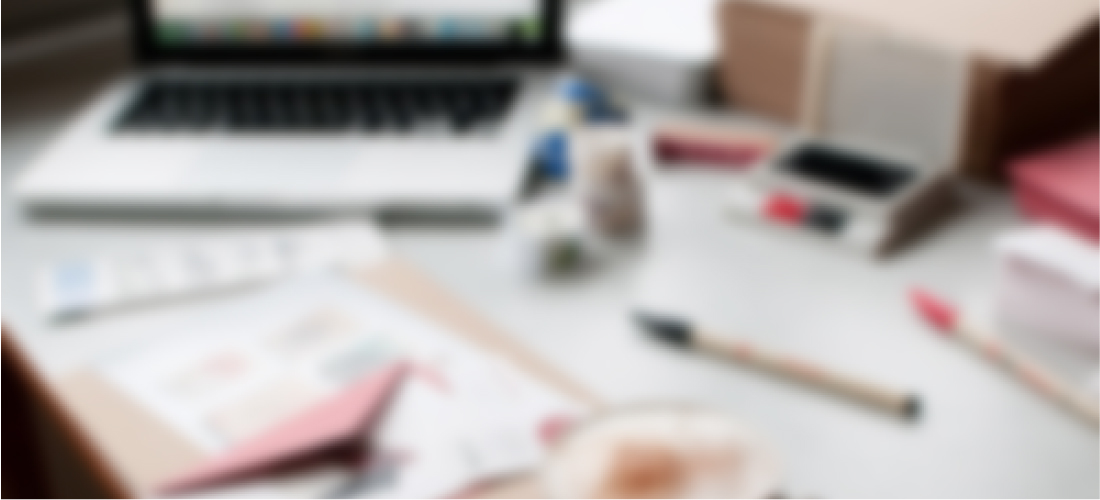
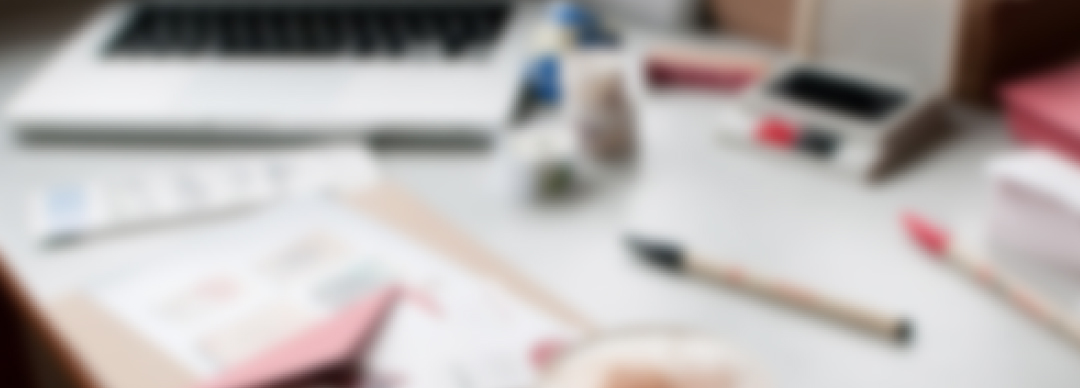
butt

diff --git a/css/core/style.css b/css/core/style.css
@@ -1,14 +1,81 @@
-header{
+/* http://meyerweb.com/eric/tools/css/reset/
+ v2.0 | 20110126
+ License: none (public domain)
+ */
+
+html, body, div, span, applet, object, iframe, h1, h2, h3, h4, h5, h6, p, blockquote, pre, a, abbr, acronym, address, big, cite, code, del, dfn, em, img, ins, kbd, q, s, samp, small, strike, sub, sup, tt, var, b, u, i, center, dl, dt, dd, ol, ul, li, fieldset, form, label, legend, table, caption, tbody, tfoot, thead, tr, th, td, article, aside, canvas, details, embed, figure, figcaption, footer, header, hgroup, menu, nav, output, ruby, section, summary, time, mark, audio, video {
+	margin: 0;
+	padding: 0;
+	border: 0;
+	font-size: 100%;
+	font: inherit;
+	vertical-align: baseline;
+}
+/* HTML5 display-role reset for older browsers */
+article, aside, details, figcaption, figure, footer, header, hgroup, menu, nav, section {
+	display: block;
+}
+body {
+	line-height: 1.5em;
+}
+ol, ul {
+	list-style: none;
+}
+blockquote, q {
+	quotes: none;
+}
+blockquote:before, blockquote:after, q:before, q:after {
+	content: '';
+	content: none;
+}
+table {
+	border-collapse: collapse;
+	border-spacing: 0;
+}
+
+header {
 	height: 50px;
 	width: 100%;
 }
 
-nav{
+nav {
 	/*width: 500px;*/
 	float: right;
 }
 
-#cta{
+body {
+	font-family: Helvetica;
+}
+
+#content {
+	max-width: 960px;
+	margin: 0 auto;
+}
+
+#cta img {
 	width: 100%;
-	background-image: url('/img/ct.jpg');
+	position: absolute;
+	z-index: -1;
+}
+
+#cta p {
+	font-size: 18px;
+	max-width: 960px;
+	margin-top: 240px;
+	display: block;
+	margin: 0 auto;
+	line-height: 1.5em;
+	text-transform: uppercase;
+	min-height: 516px;
+}
+
+#cta span {
+	display: block;
+	width: 81.770833333333%;
+	margin: 0 auto;
+}
+
+#cta span:nth-child(2) {
+	font-size: 35px;
+	line-height: 1.2em;
 }

diff --git a/index.html b/index.html
@@ -25,22 +25,25 @@
 			</nav>
 		</header>
 		<div id="cta">
+			<img src="/img/ct.jpg" />
 			<p>
 				<span>Hi, I'm Susan Brown.</span>
-				<span>I <strong>design</strong> and <strong>build</strong> web solutions of all <strong>shapes</strong> and <strong>sizes</strong>.</span>
+				<span>I <strong>design</strong> and <strong>build</strong> effective web solutions of all <strong>shapes</strong> and <strong>sizes</strong>.</span>
 				<span>This is my website. Please, make yourself at home.</span>
 			</p>
 		</div>
-		<div id="personal-intro">
-			<img src=""/>
-			<p>
-				<span>Hi there!</span>
-				My name is Susan Brown. I am a web designer and developer currently based out of Orlando, Florida. I am pursuing my bachellors degree in Web Design and Development from Full Sail University.
-				<br/>
-				Reach out via email at <strong>susanbrownwdd@gmail.com</strong>
-				<br/>
-				or by phone at <strong>248-880-3127</strong>
-			</p>
+		<div id="content">
+			<div id="personal-intro">
+				<img src=""/>
+				<p>
+					<span>Hi there!</span>
+					My name is Susan Brown. I am a web designer and developer currently based out of Orlando, Florida. I am pursuing my bachellors degree in Web Design and Development from Full Sail University.
+					<br/>
+					Reach out via email at <strong>susanbrownwdd@gmail.com</strong>
+					<br/>
+					or by phone at <strong>248-880-3127</strong>
+				</p>
+			</div>
 		</div>
 		<footer>
 
